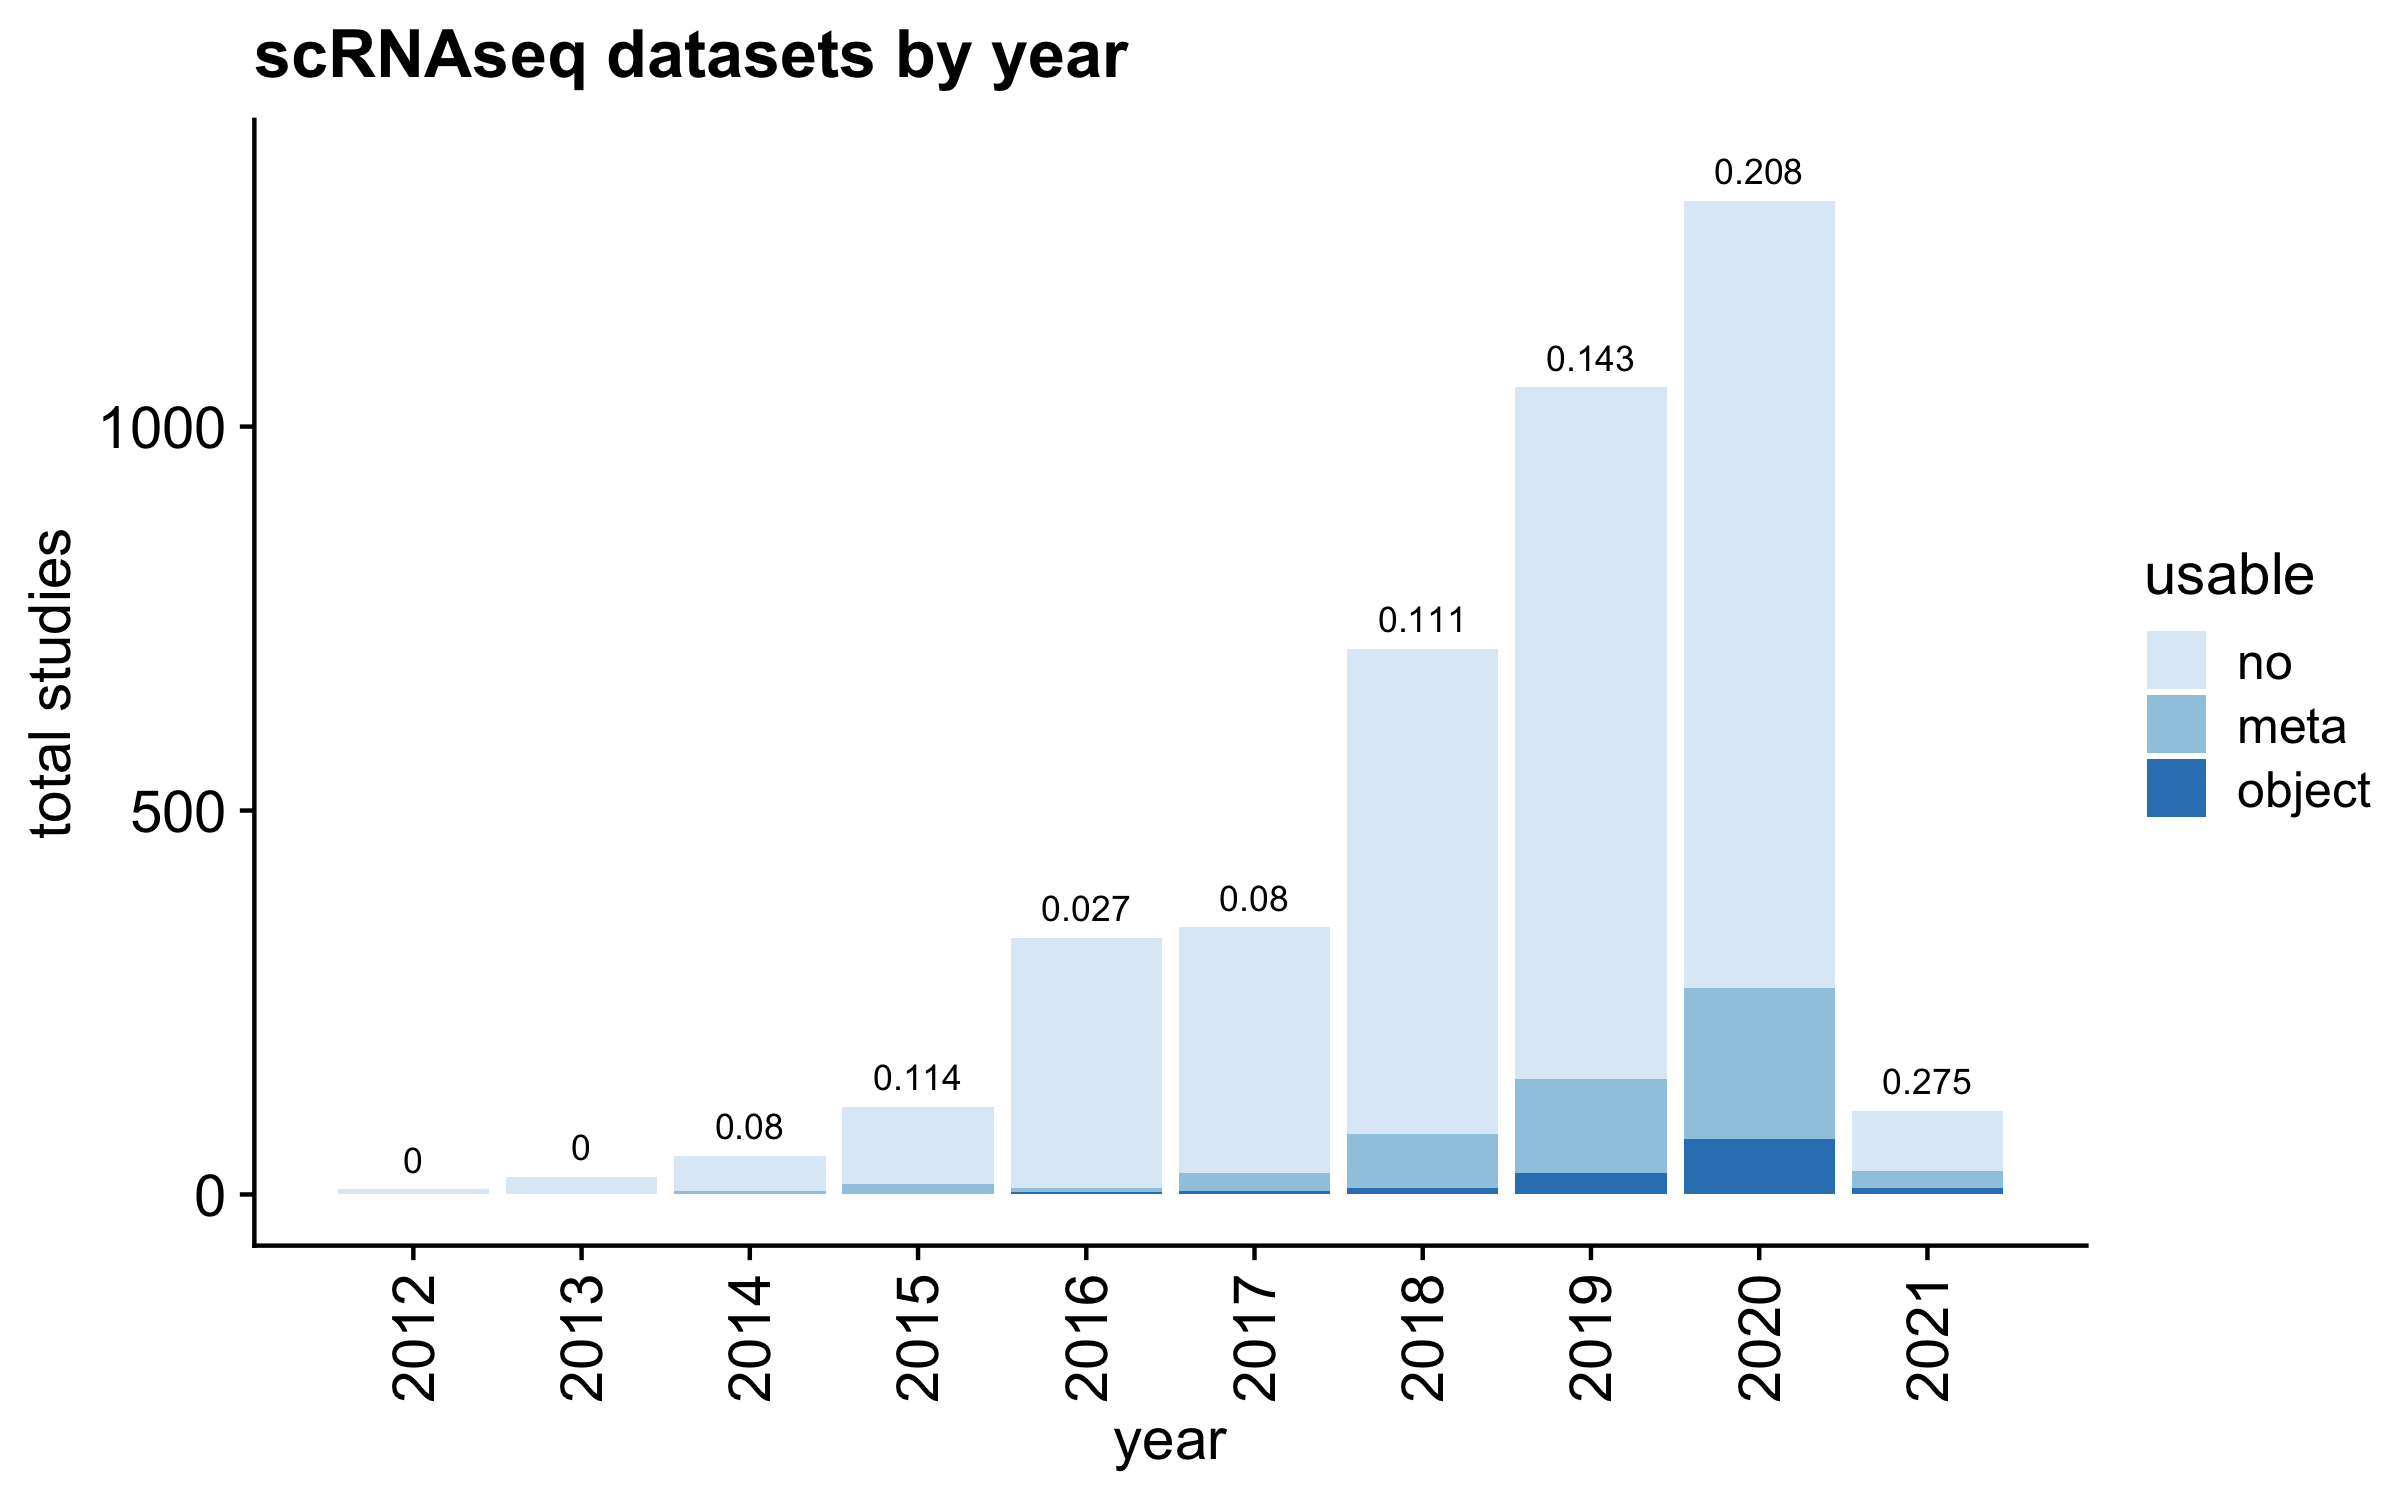
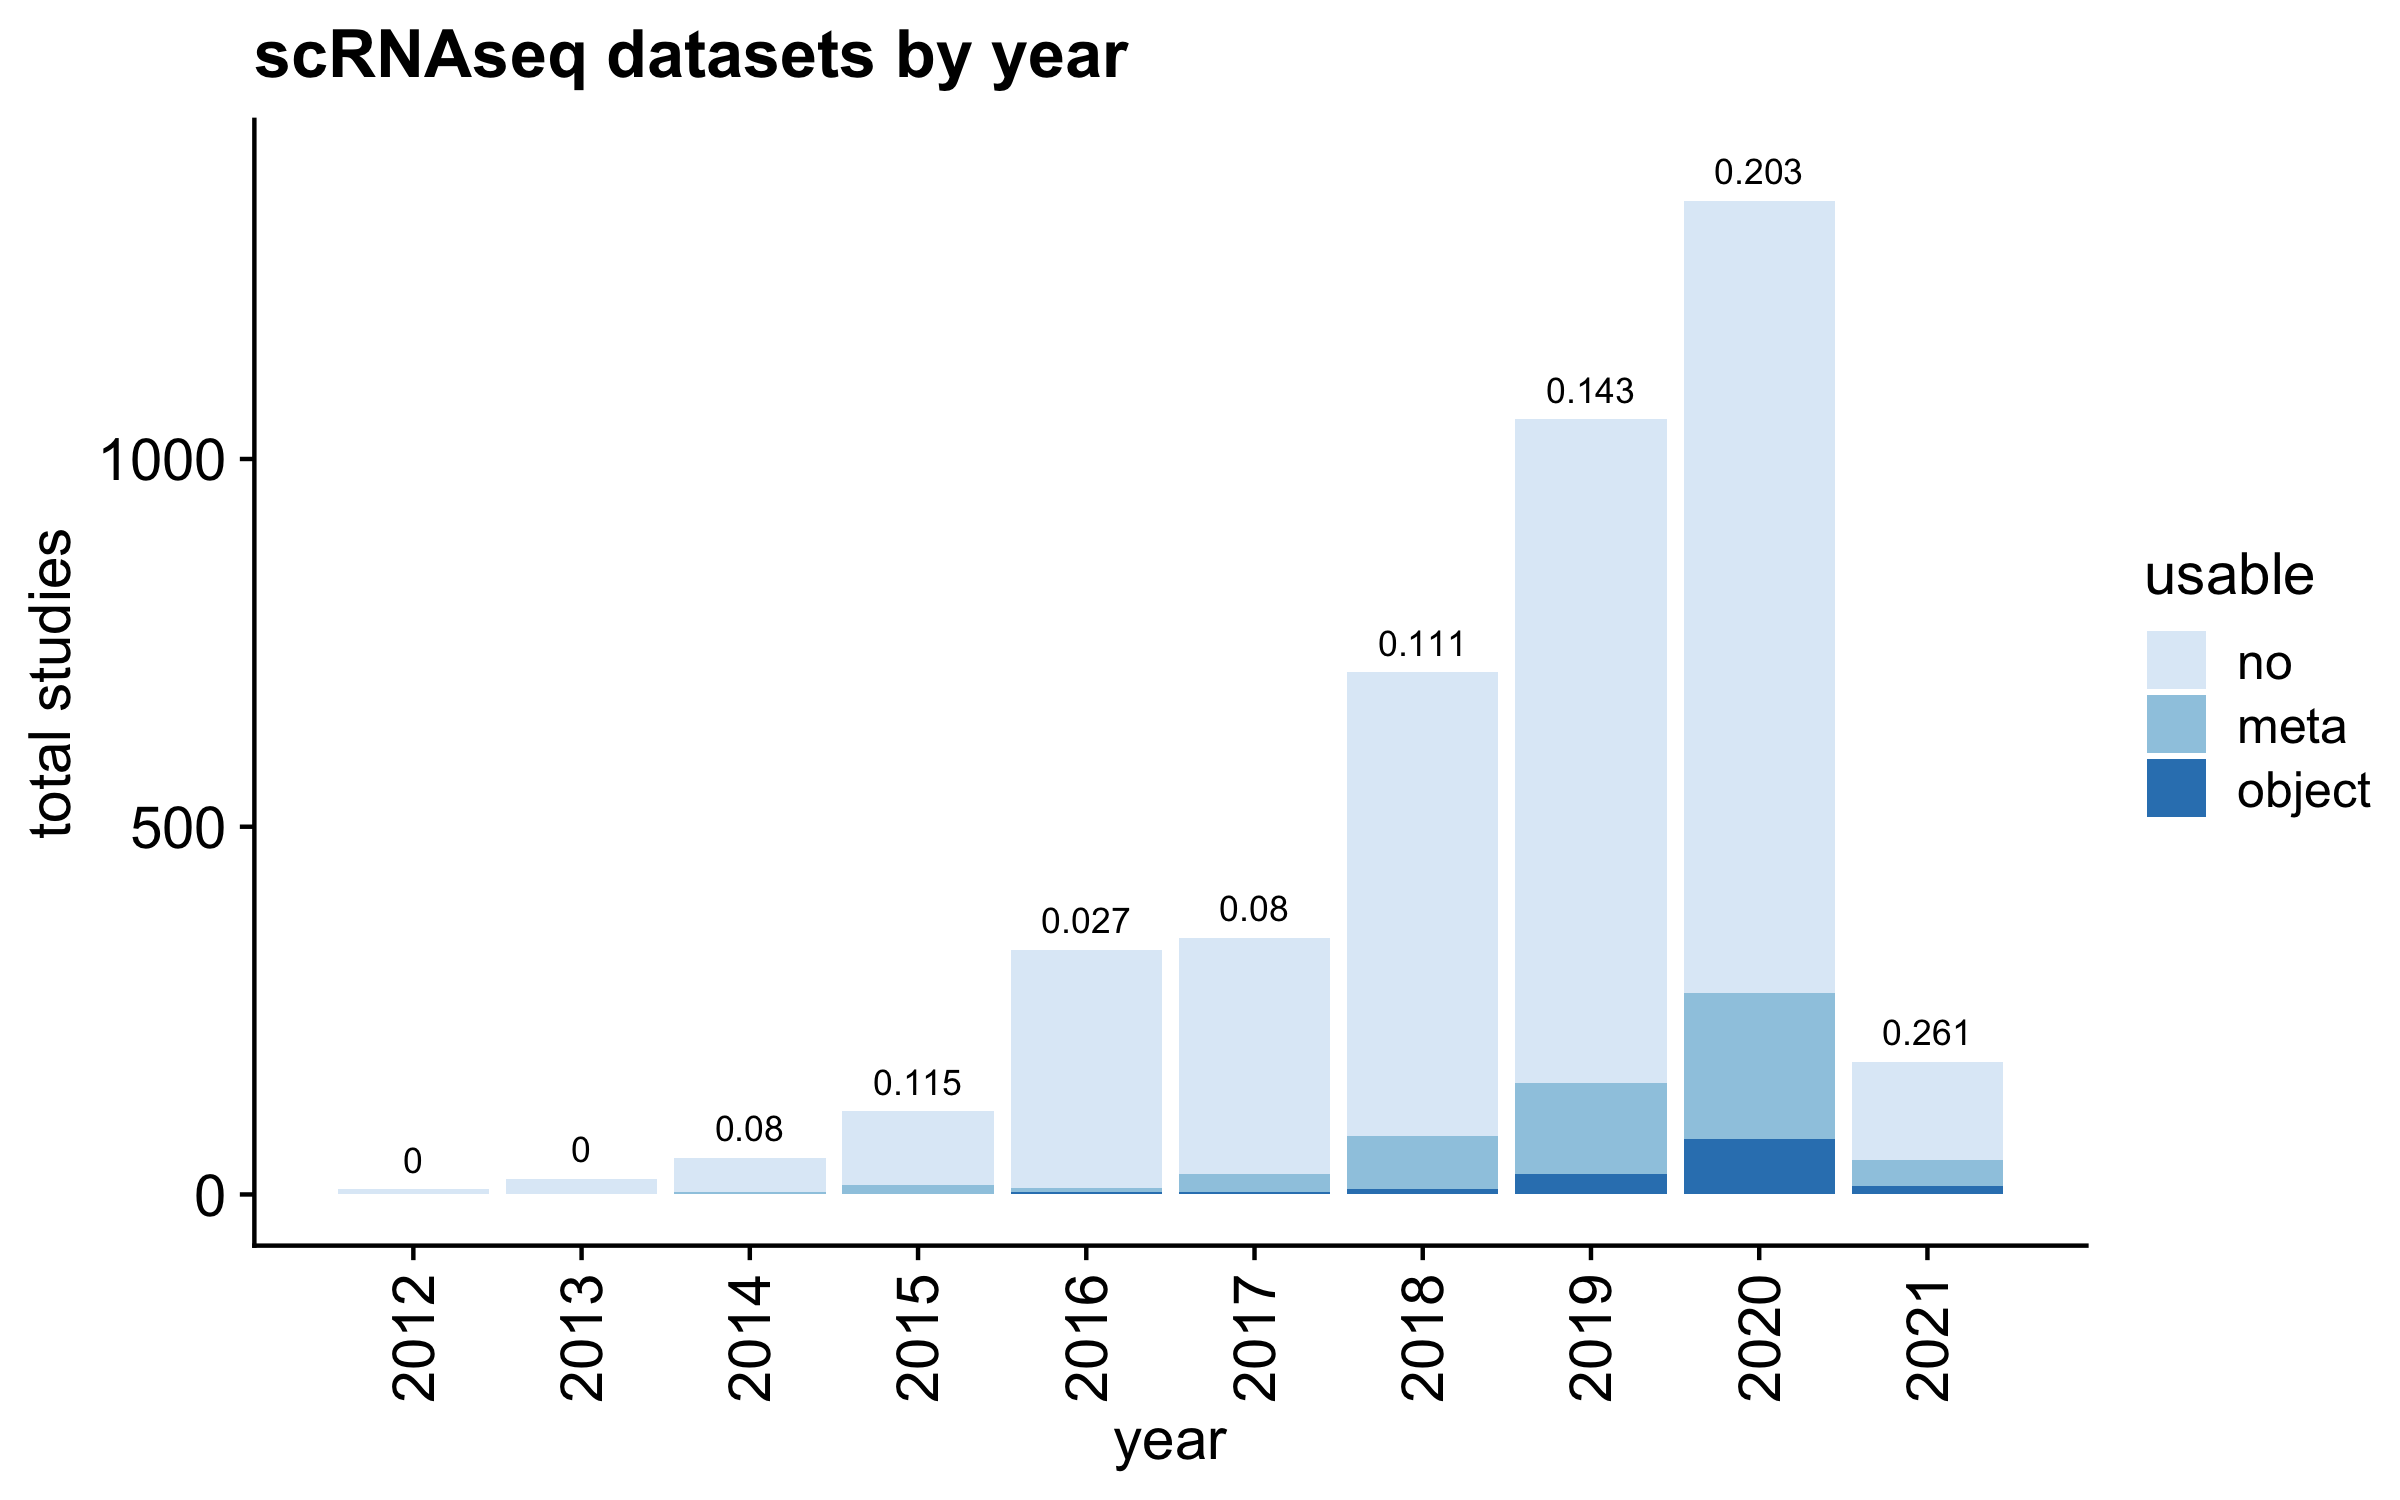
rmd

diff --git a/README.md b/README.md
@@ -6,7 +6,7 @@
 [![R build
 status](https://github.com/rnabioco/someta/workflows/Query/badge.svg)](https://github.com/rnabioco/someta/actions)
 [![Last Commit on
-GitHub](https://img.shields.io/badge/Last%20Run-03--28--2021-brightgreen)](https://rnabioco.github.io/someta/articles/get_geo.html)
+GitHub](https://img.shields.io/badge/Last%20Run-04--01--2021-brightgreen)](https://rnabioco.github.io/someta/articles/get_geo.html)
 <!-- badges: end -->
 
 Cell-type annotations are frequently excluded from public single cell
@@ -38,7 +38,7 @@ al](https://www.nature.com/articles/s41587-020-00744-z).
 As of the initial presentation of this issue (10–17–2020), the number is
 a frustratingly low **0.122**.
 
-Current fraction in GEO with metadata: **0.1405315**. In comparison, for
+Current fraction in GEO with metadata: **0.1399138**. In comparison, for
 ArrayExpress 10x datasets, the fraction is **0.1493506**).
 
 Number of depositions with updated metadata records since description of
